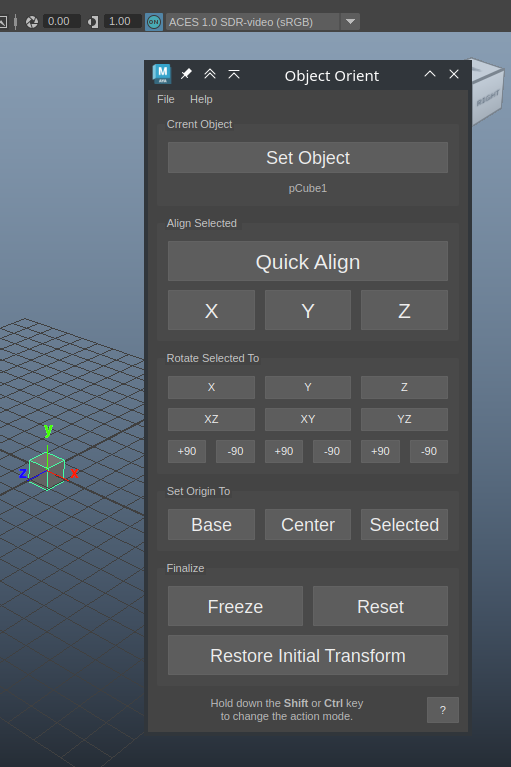
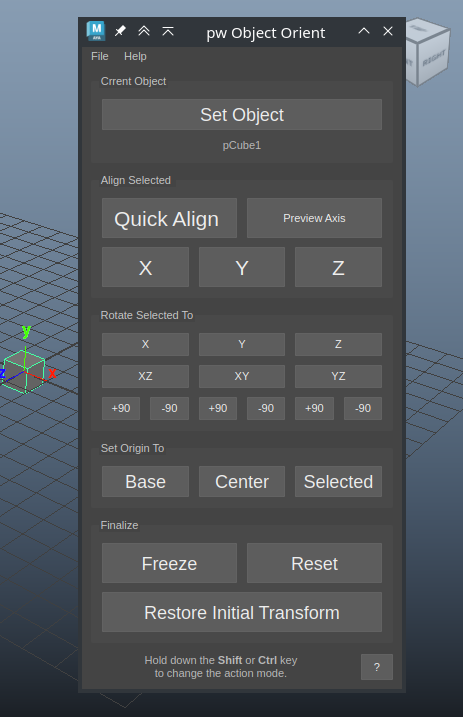
update readme

diff --git a/README_RU.md b/README_RU.md
@@ -67,9 +67,10 @@ pw_maya_restore_orient.show()
 
 #### Align Selected 
 
-`Quick Align / Preview` - Быстро выровнять объект используя текущее выделение. С зажатой клавишей `Shift` инвертируется опорный вектор. 
+`Quick Align` - Быстро выровнять объект используя текущее выделение. С зажатой клавишей `Shift` инвертируется опорный вектор. 
 Быстрое выравнивание выбирает ближайшую к опорному вектору мировую ось. Зажмите **Shift**, чтобы инвертировать направление выравнивания. 
-Зажмите `Ctrl` чтобы сделать превью исходных осей для выделенного элемента.
+
+`Preview Axis` - Создаёт превью базиса, который создаётся из текущего выделения. Нажмите еще раз, чтобы удалить превью.
 
 `X/Y/Z` - Выровнять объект используя текущее выделение, при этом выделенный опорный элемент будет ориентирован по выбранной оси. 
 Зажмите **Shift**, чтобы инвертировать направление этой оси.
@@ -80,6 +81,8 @@ pw_maya_restore_orient.show()
 
 `X/Y/Z` - Ориентировать объект вдоль выбранной оси относительно выбранного элемента. 
 Рассчитанный вектор будет направлен ровно по указанной оси.
+Эти команды отличаются от аналогичных команд из группы `Align Selected` тем, что выполняют только поворот вектора по направлению
+к указанной оси. Команды из `Align Selected` выравнивают весь объект по сгенерированному базису.
 
 `XZ/XY/YZ/YX/ZY/ZX` - Повернуть ось выбранного элемента на выбранную плоскость. Удобно для коррекции ориентации объекта
 после основного выравнивания.

diff --git a/README.md b/README.md
@@ -67,9 +67,10 @@ With the `Ctrl` key held, the current object will be unset.
 
 #### Align Selected
 
-`Quick Align / Preview` - Quickly align the object using the current selection. With the `Shift` key held, the reference vector is inverted.
+`Quick Align` - Quickly align the object using the current selection. With the `Shift` key held, the reference vector is inverted.
 Quick alignment selects the nearest world axis to the reference vector. Hold **Shift** to invert the alignment direction.
-Hold down `Ctrl` to preview the original axes for the selected element.
+
+`Preview Axis` - Creates a preview of the basis that is created from the current selection. Click again to remove the preview.
 
 `X/Y/Z` - Align the object using the current selection, with the selected reference element oriented along the chosen axis.
 Hold **Shift** to invert the direction of this axis.
@@ -80,6 +81,8 @@ A group of buttons for quick rotation and alignment of orientation.
 
 `X/Y/Z` - Orient the object along the selected axis relative to the selected element. The calculated vector will be 
 directed exactly along the specified axis.
+These commands differ from similar commands from the `Align Selected` group in that they only rotate the vector in the direction
+to the specified axis. The commands from `Align Selected` align the entire object to the generated basis.
 
 `XZ/XY/YZ/YX/ZY/ZX` - Rotate the axis of the selected element onto the chosen plane. This is convenient for 
 correcting the orientation of the object after the main alignment.
